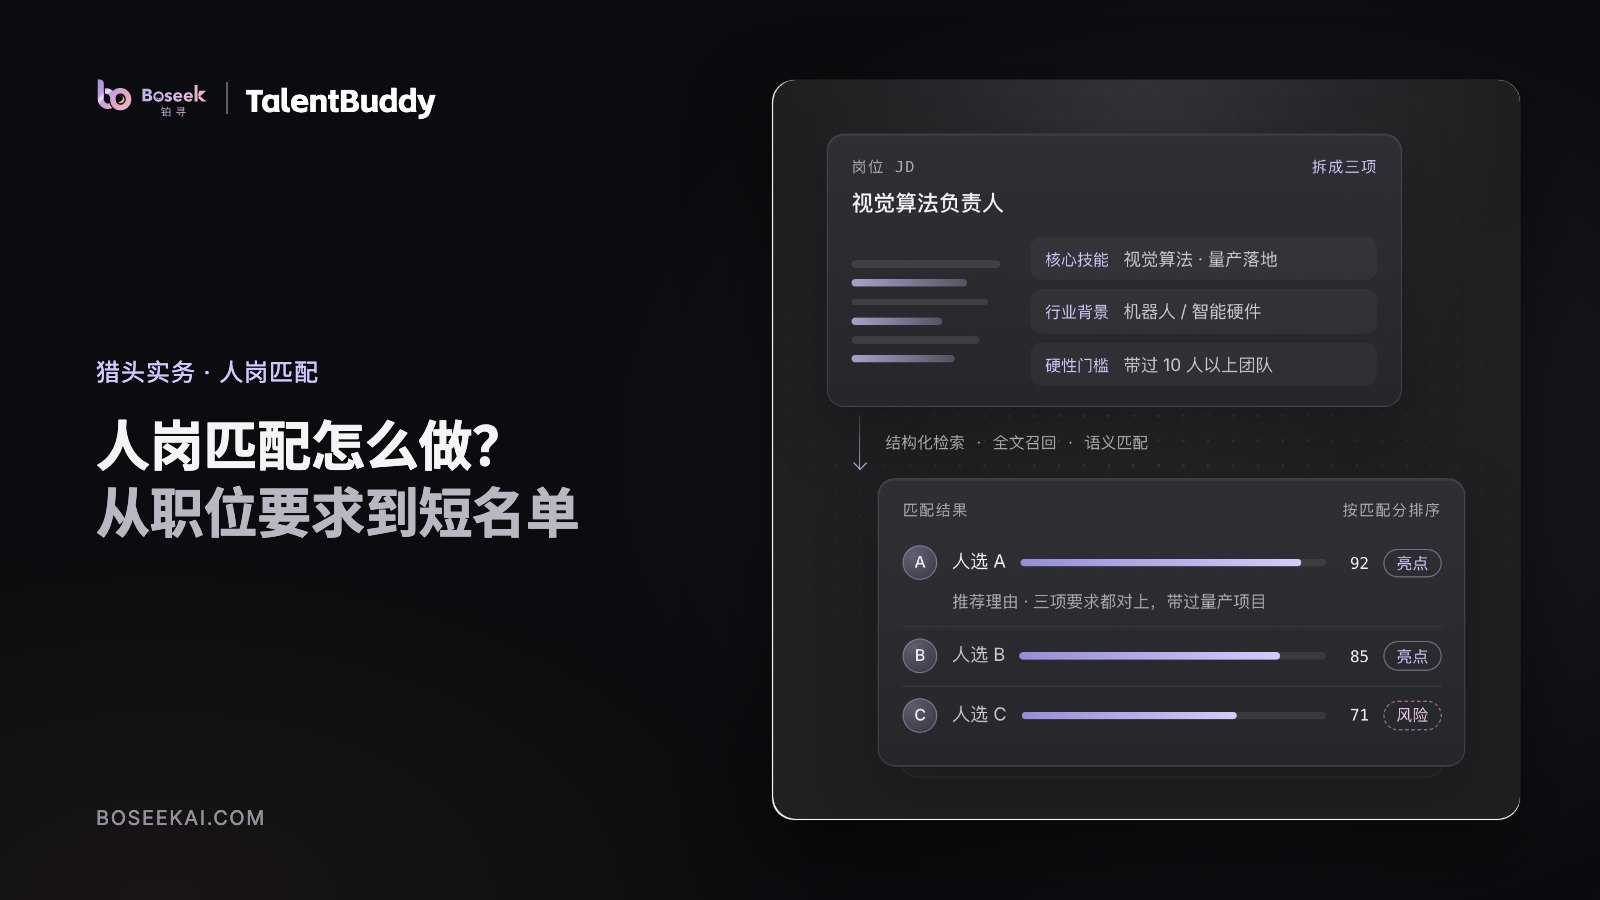
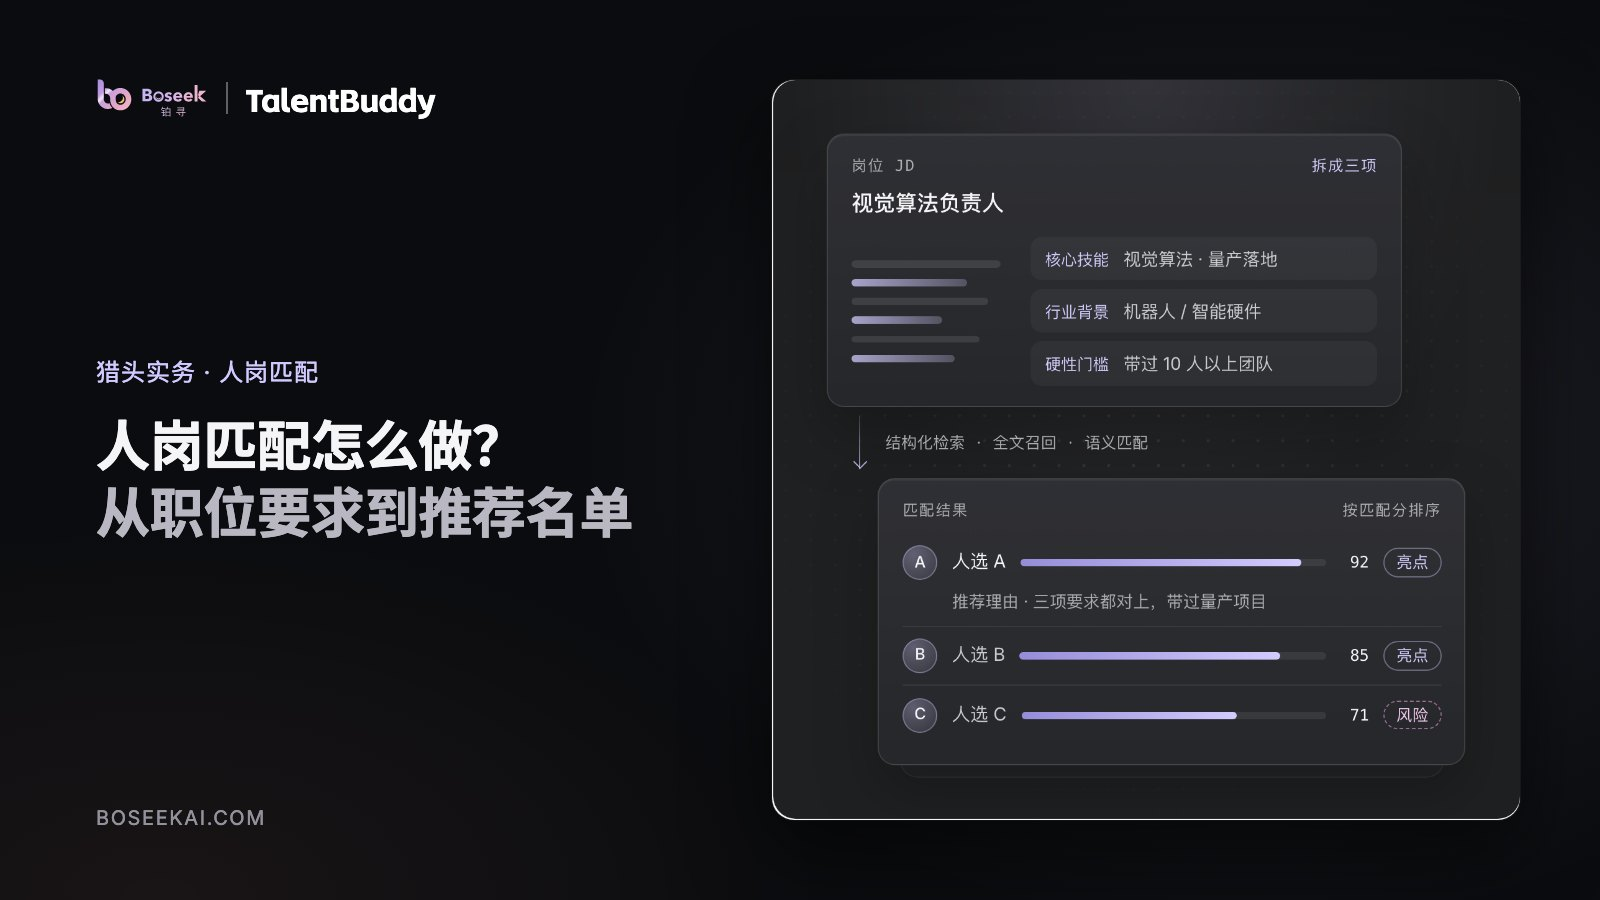
“短名单”改为更直白的“推荐名单”（01 卡标题改为“千份简历，挑出最匹配的人”；人岗匹配一文首次出现时注明行业叫法）

diff --git a/public/landing-redesign/use-cases/job-matching/index.html b/public/landing-redesign/use-cases/job-matching/index.html
@@ -6,7 +6,7 @@
     <meta name="theme-color" content="#0f1011" />
     <!-- 改版草稿：只用于预览，不收录（上主站时去掉这一行） -->
     <meta name="robots" content="noindex" />
-    <title>人岗匹配怎么做？从职位要求到短名单，智能招聘真正难在哪｜TalentBuddy</title>
+    <title>人岗匹配怎么做？从职位要求到推荐名单，智能招聘真正难在哪｜TalentBuddy</title>
     <meta name="description" content="人岗匹配怎么做？从拆解 JD、和用人经理问清真实需求，到筛选排序、写推荐理由和风险，讲清猎头做匹配的方法，也讲清只靠关键词为什么会漏人，智能招聘工具在匹配上能做什么、不能做什么。" />
     <link rel="canonical" href="https://www.boseekai.com/use-cases/job-matching/" />
     <link rel="alternate" hreflang="zh-CN" href="https://www.boseekai.com/use-cases/job-matching/" />
@@ -14,7 +14,7 @@
     <link rel="alternate" hreflang="x-default" href="https://www.boseekai.com/use-cases/job-matching/" />
     <meta property="og:type" content="article" />
     <meta property="og:site_name" content="铂寻 Boseek" />
-    <meta property="og:title" content="人岗匹配怎么做？从职位要求到短名单，智能招聘真正难在哪" />
+    <meta property="og:title" content="人岗匹配怎么做？从职位要求到推荐名单，智能招聘真正难在哪" />
     <meta property="og:description" content="人岗匹配怎么做？从拆解 JD、和用人经理问清真实需求，到筛选排序、写推荐理由和风险，讲清猎头做匹配的方法，也讲清只靠关键词为什么会漏人，智能招聘工具在匹配上能做什么、不能做什么。" />
     <meta property="og:url" content="https://www.boseekai.com/use-cases/job-matching/" />
     <meta property="og:locale" content="zh_CN" />
@@ -48,7 +48,7 @@
             "@type": "WebPage",
             "@id": "https://www.boseekai.com/use-cases/job-matching/#webpage",
             "url": "https://www.boseekai.com/use-cases/job-matching/",
-            "name": "人岗匹配怎么做？从职位要求到短名单，智能招聘真正难在哪｜TalentBuddy",
+            "name": "人岗匹配怎么做？从职位要求到推荐名单，智能招聘真正难在哪｜TalentBuddy",
             "description": "人岗匹配怎么做？从拆解 JD、和用人经理问清真实需求，到筛选排序、写推荐理由和风险，讲清猎头做匹配的方法，也讲清只靠关键词为什么会漏人，智能招聘工具在匹配上能做什么、不能做什么。",
             "inLanguage": "zh-CN",
             "isPartOf": {
@@ -88,7 +88,7 @@
           {
             "@type": "Article",
             "@id": "https://www.boseekai.com/use-cases/job-matching/#article",
-            "headline": "人岗匹配怎么做？从职位要求到短名单，智能招聘真正难在哪",
+            "headline": "人岗匹配怎么做？从职位要求到推荐名单，智能招聘真正难在哪",
             "description": "人岗匹配怎么做？从拆解 JD、和用人经理问清真实需求，到筛选排序、写推荐理由和风险，讲清猎头做匹配的方法，也讲清只靠关键词为什么会漏人，智能招聘工具在匹配上能做什么、不能做什么。",
             "inLanguage": "zh-CN",
             "datePublished": "2026-10-25",
@@ -200,7 +200,7 @@
             <a href="../../">首页</a><span aria-hidden="true">/</span><a href="../../use-cases/">使用场景</a><span aria-hidden="true">/</span><span aria-current="page">人岗匹配怎么做</span>
           </nav>
           <p class="n-kicker">猎头实务 · 人岗匹配</p>
-          <h1 id="s-title"><span class="ln">人岗匹配怎么做？</span><br /><span class="ln">从职位要求到短名单</span></h1>
+          <h1 id="s-title"><span class="ln">人岗匹配怎么做？</span><br /><span class="ln">从职位要求到推荐名单</span></h1>
           <p class="s-lead">人岗匹配，是把一个职位真正要的东西和一个人真正做过的事对上。做法是先把 JD 拆成硬性要求、核心技能、行业背景和加分项，研发岗位还要分清技术方向和落地经验，和用人经理问清没写出来的需求，再据此筛选、排序，给每位人选写明推荐理由和风险。只靠关键词比对会漏人也会错人，AI 能帮着找和比，最后的判断仍在顾问。</p>
           <p class="s-meta">铂寻 Boseek<span aria-hidden="true">·</span>更新于 <time datetime="2026-11-02">2026-11-02</time></p>
         </div></div>
@@ -215,7 +215,7 @@
                 <li><a href="#s1">人岗匹配第一步，JD 该怎么拆？</a></li>
                 <li><a href="#s2">JD 里没写的真实需求，怎么跟用人经理问出来？</a></li>
                 <li><a href="#s3">智能招聘为什么常常配不准？</a></li>
-                <li><a href="#s4">从长名单到短名单，怎么筛选和排序？</a></li>
+                <li><a href="#s4">从初筛名单到推荐名单，怎么筛选和排序？</a></li>
                 <li><a href="#s5">TalentBuddy 能怎么帮你做人岗匹配？</a></li>
                 <li><a href="#s6">推荐理由和风险，怎么写客户才愿意看？</a></li>
               </ol>
@@ -293,8 +293,8 @@
         <section class="s-section" id="s4" aria-labelledby="s4-t">
           <div class="n-wrap"><div class="s-col">
             <p class="s-label">04</p>
-            <h2 id="s4-t">从长名单到短名单，怎么筛选和排序？</h2>
-            <p class="s-p">长名单求全，短名单求准。长名单是所有可能合适的人，短名单是你愿意用自己的信誉担保、推给客户的人。中间这一段，大致这样走：</p>
+            <h2 id="s4-t">从初筛名单到推荐名单，怎么筛选和排序？</h2>
+            <p class="s-p">初筛名单（行业里也叫长名单）求全，推荐名单（也叫短名单）求准。初筛名单是所有可能合适的人，推荐名单是你愿意用自己的信誉担保、推给客户的人。中间这一段，大致这样走：</p>
             <ol class="s-steps">
               <li>
                 <h3>先过硬性要求</h3>

diff --git a/public/landing-redesign/index.html b/public/landing-redesign/index.html
@@ -325,7 +325,7 @@
           <div class="n-section-head n-section-head-wide">
             <p class="n-kicker">01 · 核心能力</p>
             <h2 class="n-h2" id="n-caps-title">六个环节，环环交付</h2>
-            <p class="n-sub">匹配短名单、寻访名单、核实结论、客户研判、变动提示、组织架构图，每条都有出处。联系谁、怎么谈，由你决定。</p>
+            <p class="n-sub">匹配名单、寻访名单、核实结论、客户研判、变动提示、组织架构图，每条都有出处。联系谁、怎么谈，由你决定。</p>
           </div>
 
           <div class="n-scrolly" data-scrolly>
@@ -358,8 +358,8 @@
               <div class="n-step-text">
                 <p class="n-step-meta"><i>找人</i><span>01 / 06</span></p>
                 <p class="n-pain">JD 只写了技术方向和年限，库里却有几千份简历，逐份对比要花大半天。</p>
-                <h3 id="n-step-match">人岗匹配：千份简历，排出短名单</h3>
-                <p>把 JD 拆成核心技能、行业背景和硬性门槛，在简历全文和结构化信息中一并检索，交回按匹配分排序的短名单。每位人选附亮点、风险和推荐理由，一点即可查看原文出处。也可以反过来，为一份简历匹配在手岗位。</p>
+                <h3 id="n-step-match">人岗匹配：千份简历，挑出最匹配的人</h3>
+                <p>把 JD 拆成核心技能、行业背景和硬性门槛，在简历全文和结构化信息中一并检索，交回按匹配分排序的推荐名单。每位人选附亮点、风险和推荐理由，一点即可查看原文出处。也可以反过来，为一份简历匹配在手岗位。</p>
                 <a class="n-more" href="use-cases/job-matching/">了解人岗匹配</a>
                 <span class="n-step-bar" aria-hidden="true"><i class="is-on"></i><i></i><i></i><i></i><i></i><i></i></span>
               </div>

diff --git a/public/landing-redesign/use-cases/index.html b/public/landing-redesign/use-cases/index.html
@@ -92,7 +92,7 @@
                 "@type": "ListItem",
                 "position": 4,
                 "url": "https://www.boseekai.com/use-cases/job-matching/",
-                "name": "人岗匹配怎么做？从职位要求到短名单，智能招聘真正难在哪"
+                "name": "人岗匹配怎么做？从职位要求到推荐名单，智能招聘真正难在哪"
               },
               {
                 "@type": "ListItem",
@@ -207,7 +207,7 @@
               <li>
                 <a href="job-matching/">
                   <span class="s-index-no">04</span>
-                  <strong>人岗匹配怎么做？从职位要求到短名单，智能招聘真正难在哪</strong>
+                  <strong>人岗匹配怎么做？从职位要求到推荐名单，智能招聘真正难在哪</strong>
                   <span class="s-index-line">拆 JD、问需求、排名单，以及关键词为什么靠不住。</span>
                   <span class="n-more">阅读全文</span>
                 </a>

diff --git a/scripts/build-redesign-en-home.py b/scripts/build-redesign-en-home.py
@@ -157,7 +157,7 @@ r('aria-label="TalentBuddy 产品短片"', 'aria-label="TalentBuddy product vide
 # ---------- six capabilities: heading ----------
 r('<p class="n-kicker">01 · 核心能力</p>', '<p class="n-kicker">01 · Capabilities</p>')
 r('<h2 class="n-h2" id="n-caps-title">六个环节，环环交付</h2>', '<h2 class="n-h2" id="n-caps-title">Six stages, six deliverables</h2>')
-r('匹配短名单、寻访名单、核实结论、客户研判、变动提示、组织架构图，每条都有出处。联系谁、怎么谈，由你决定。',
+r('匹配名单、寻访名单、核实结论、客户研判、变动提示、组织架构图，每条都有出处。联系谁、怎么谈，由你决定。',
   'Matched shortlists, sourced candidate lists, identity checks, BD client research, change alerts and org charts, each with its source. Who to contact, and how to approach them, is your call.')
 r('<i>找人</i>', '<i>Find</i>')
 r('<i>看清</i>', '<i>Know</i>')   # not "Assess": HunterBuddy never judges people
@@ -179,8 +179,8 @@ r('<u class="is-risk">风险</u>', '<u class="is-risk">Risk</u>')
 r('<p>推荐理由 · 三项要求都对上，带过量产项目</p>', '<p>Why · Meets all three, has led mass production</p>')
 # 01 text
 r('JD 只写了技术方向和年限，库里却有几千份简历，逐份对比要花大半天。', 'The JD names a technical field and years of experience, your database holds thousands of CVs, and comparing them one by one takes most of a day.')
-r('<h3 id="n-step-match">人岗匹配：千份简历，排出短名单</h3>', '<h3 id="n-step-match">Job matching: from thousands of CVs to a shortlist</h3>')
-r('把 JD 拆成核心技能、行业背景和硬性门槛，在简历全文和结构化信息中一并检索，交回按匹配分排序的短名单。每位人选附亮点、风险和推荐理由，一点即可查看原文出处。也可以反过来，为一份简历匹配在手岗位。',
+r('<h3 id="n-step-match">人岗匹配：千份简历，挑出最匹配的人</h3>', '<h3 id="n-step-match">Job matching: from thousands of CVs to a shortlist</h3>')
+r('把 JD 拆成核心技能、行业背景和硬性门槛，在简历全文和结构化信息中一并检索，交回按匹配分排序的推荐名单。每位人选附亮点、风险和推荐理由，一点即可查看原文出处。也可以反过来，为一份简历匹配在手岗位。',
   'It breaks the JD into core skills, industry background and must-haves, then searches the full text of your CVs and their structured fields together. You get back a shortlist ranked by match score, with each candidate’s strengths, risks and why we recommend them, and one click takes you to the original source. It works the other way too: give it a CV and it finds the live searches that fit.')
 r('>了解人岗匹配</a>', '>More on job matching</a>')
 
